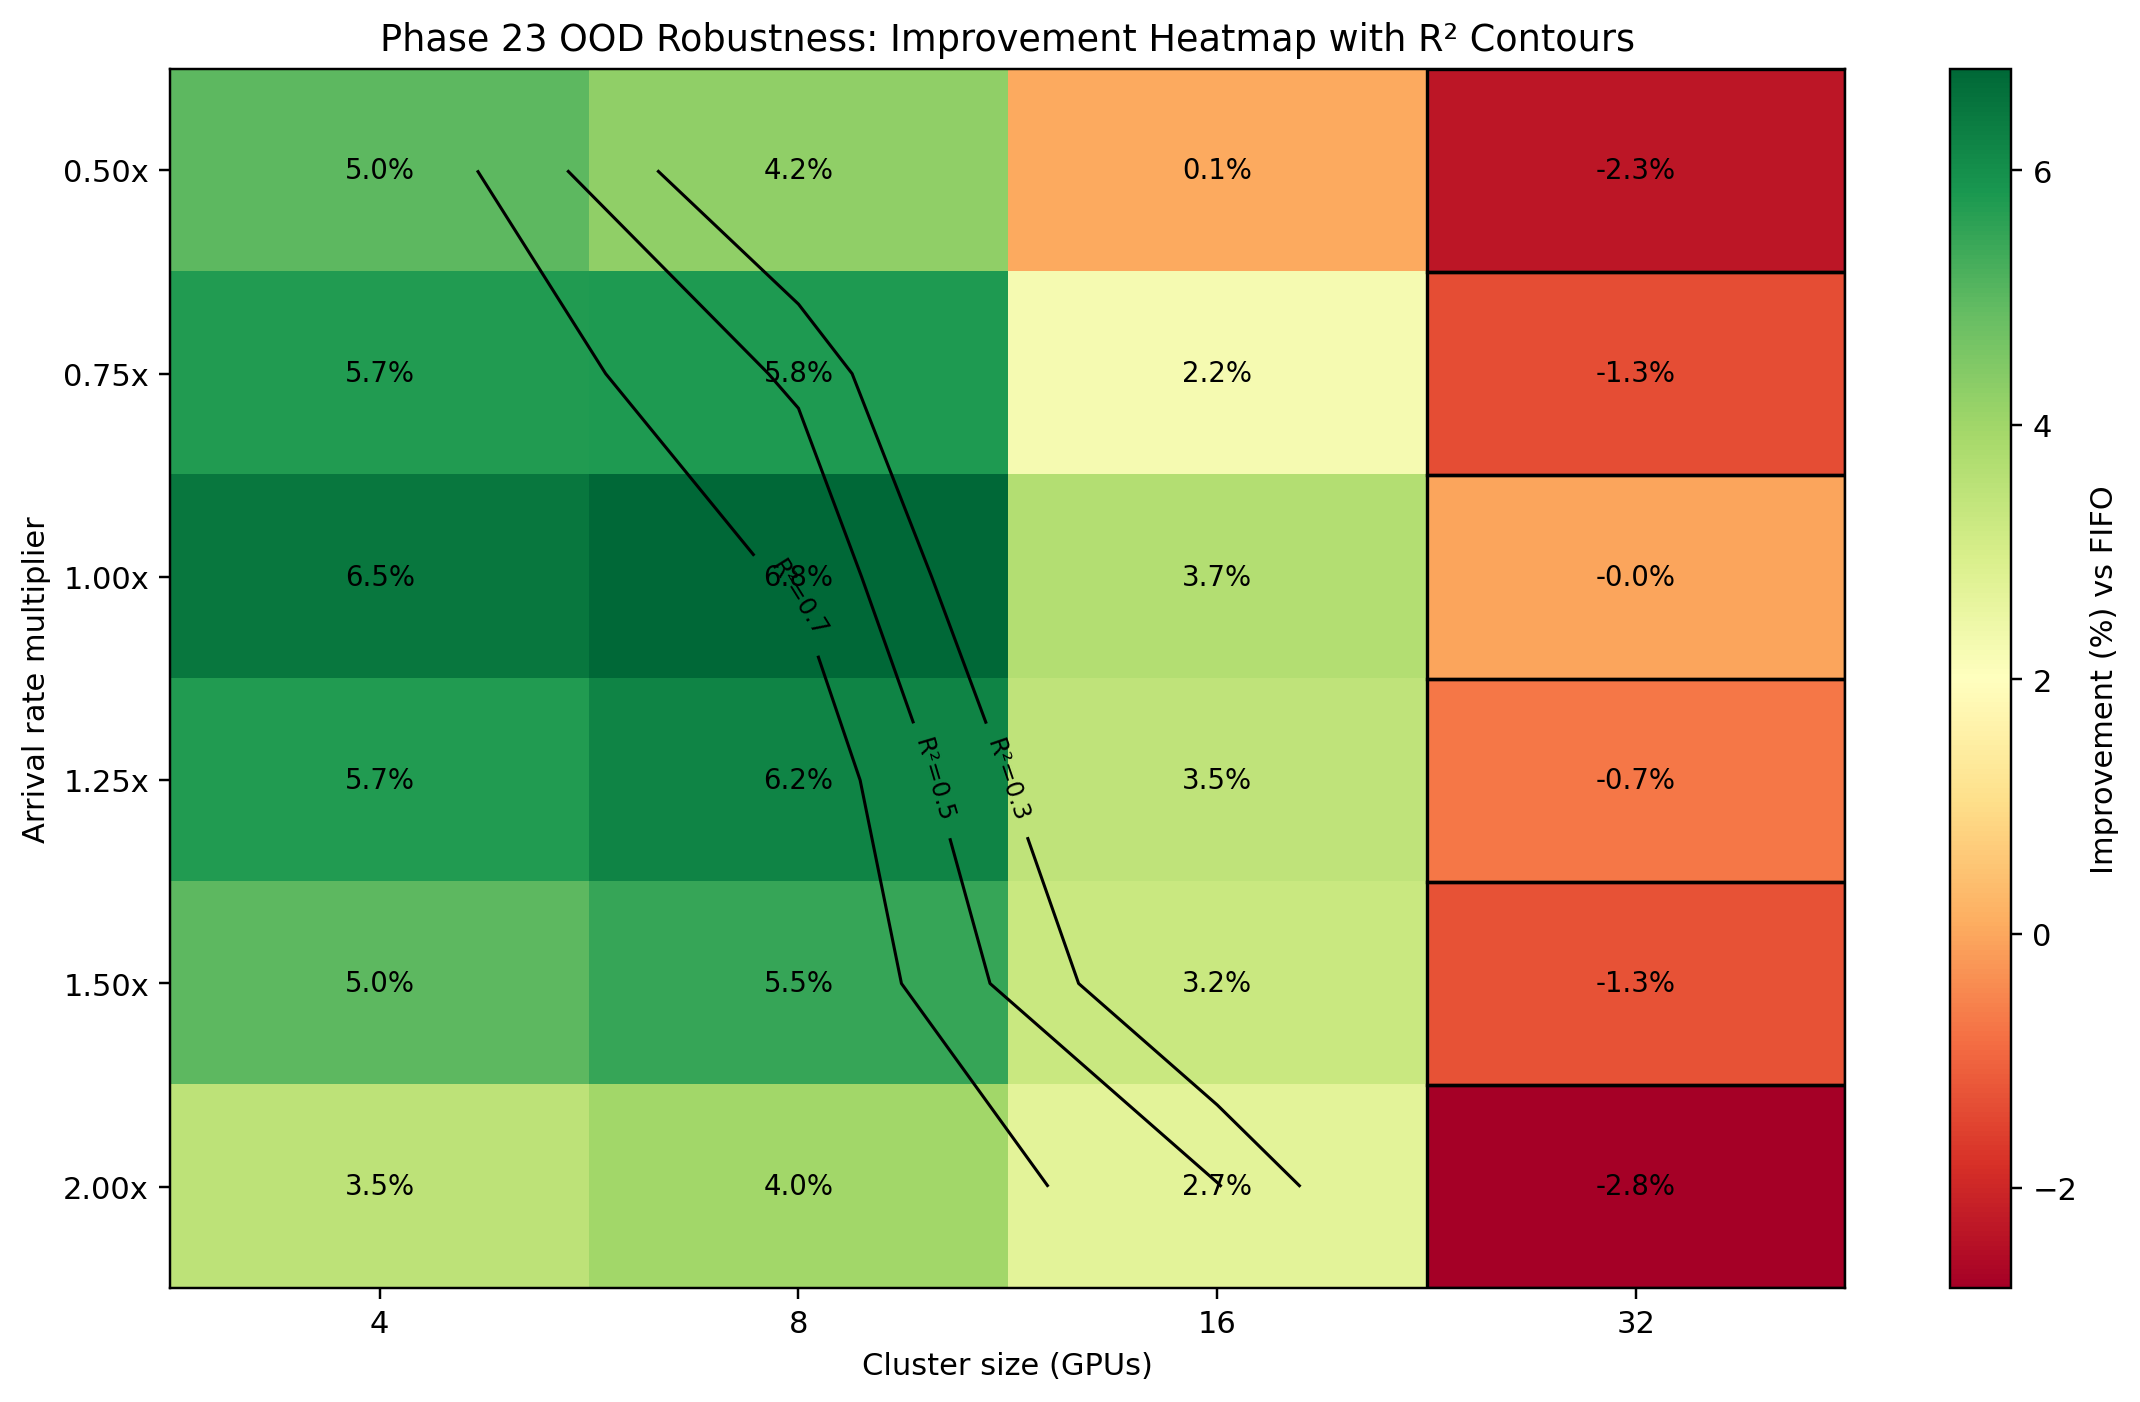
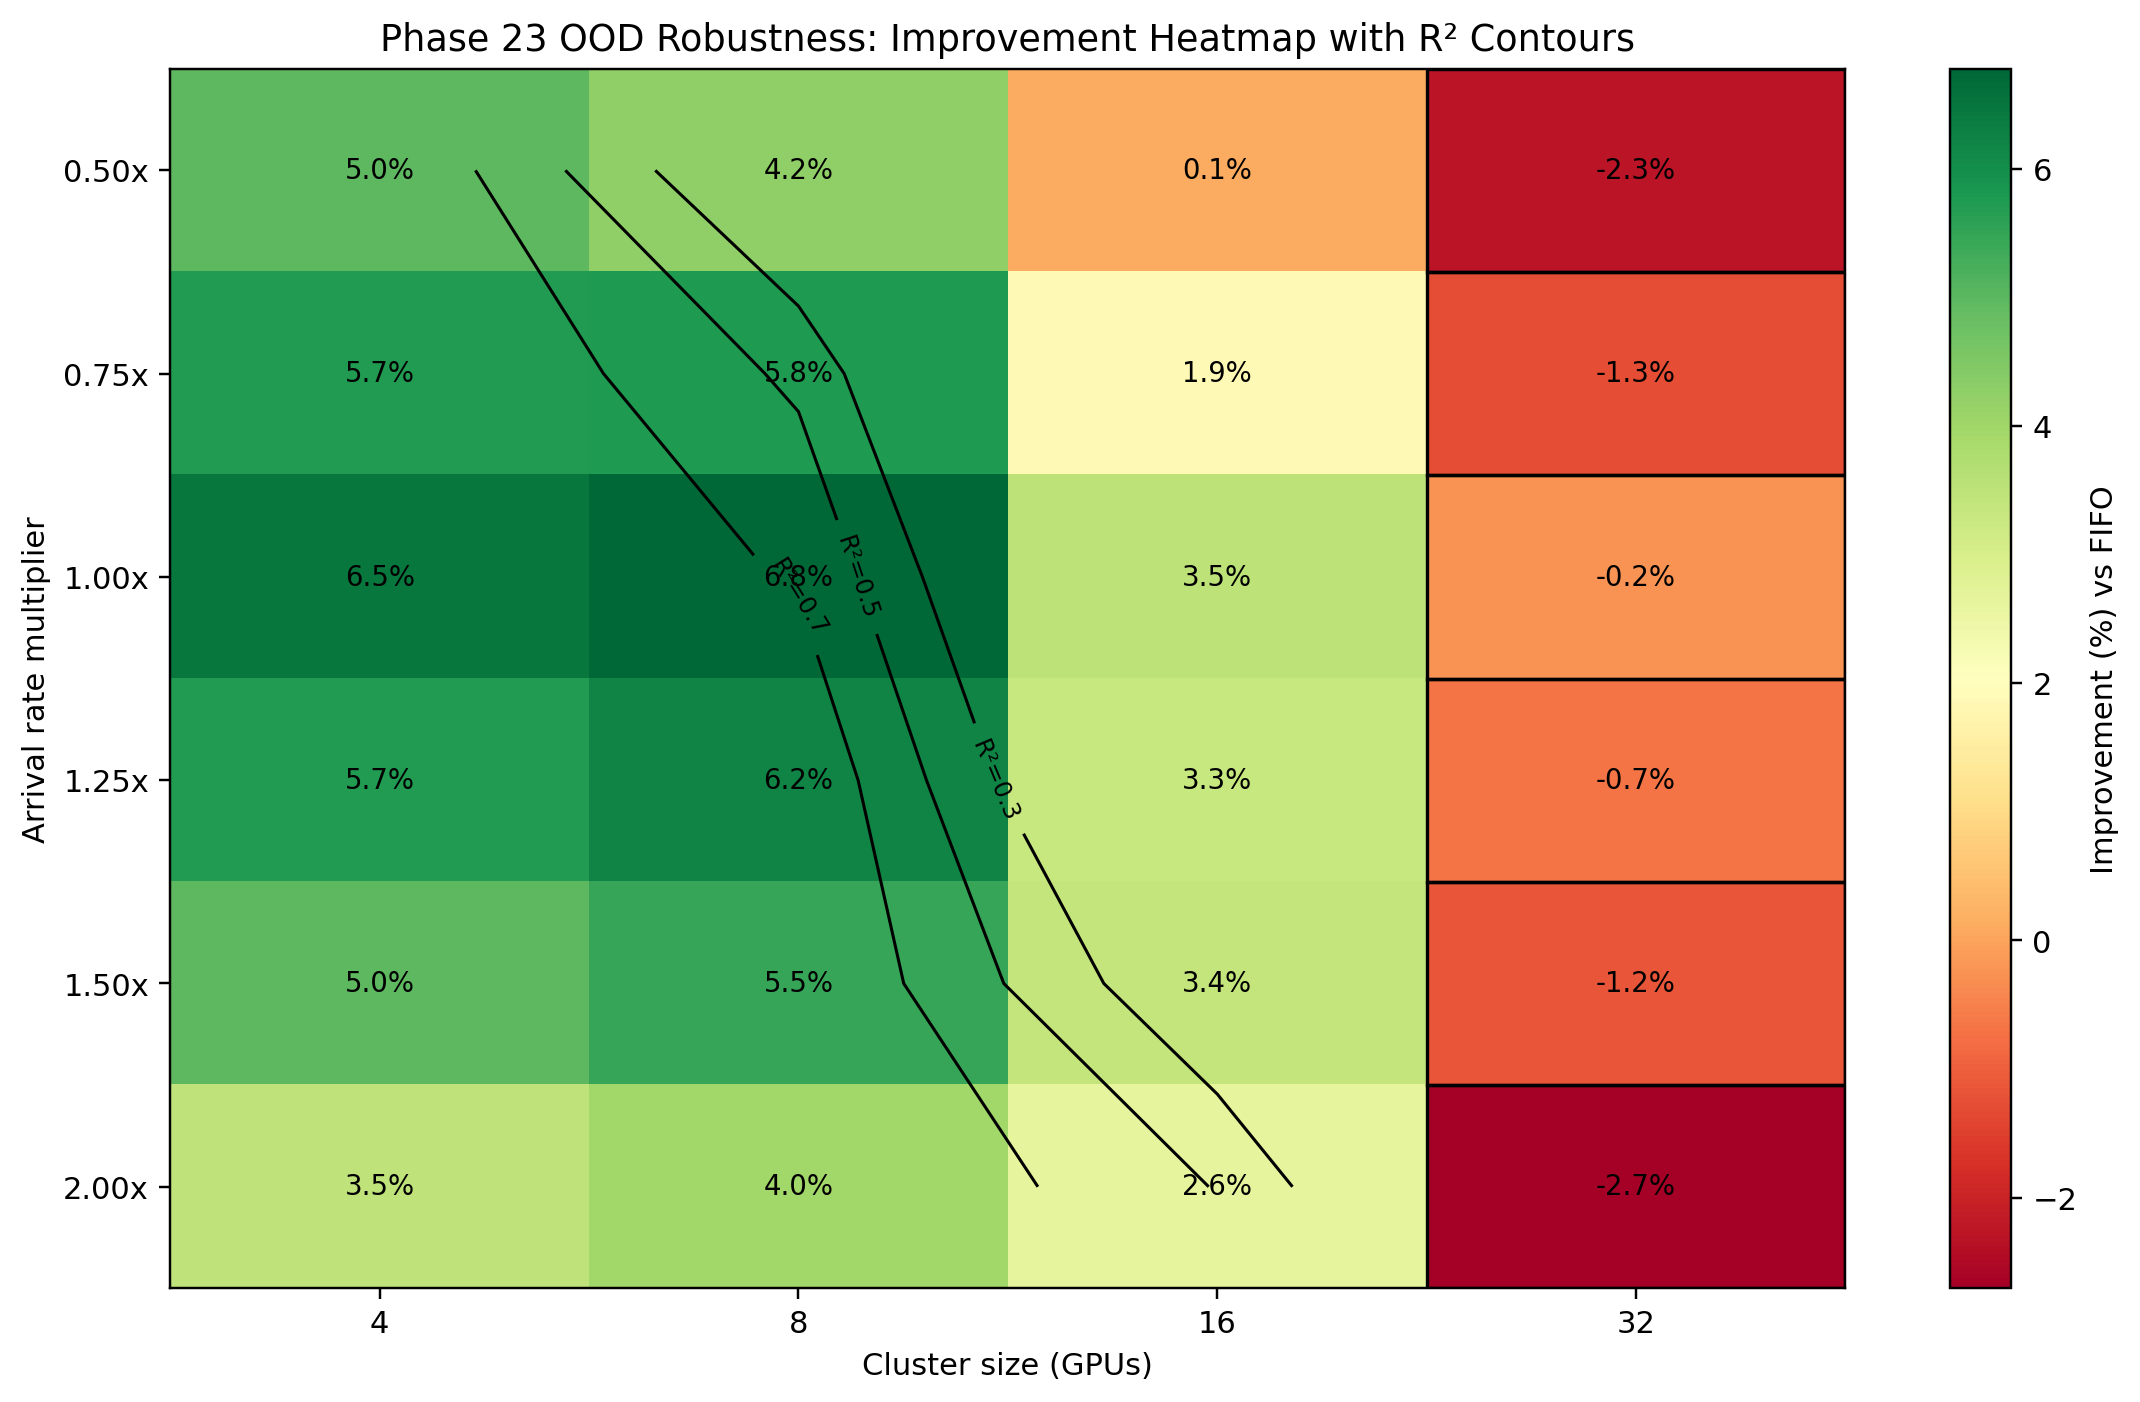
Refine Phase 23 robustness analysis and regenerate artifacts
Agent-Logs-Url: https://github.com/rakshit-737/proactive-feasibility-scheduler/sessions/0b4325ff-042d-443d-854c-bb11573b0f3c

diff --git a/phases_22_30/phase_23_sensitivity/sensitivity_ood_analysis.py b/phases_22_30/phase_23_sensitivity/sensitivity_ood_analysis.py
@@ -18,6 +18,15 @@ OUTPUT_HEATMAP = os.path.join(SCRIPT_DIR, "ood_heatmap.png")
 ARRIVAL_MULTIPLIERS = [0.5, 0.75, 1.0, 1.25, 1.5, 2.0]
 CLUSTER_SIZES = [4, 8, 16, 32]
 JOB_DISTRIBUTIONS = ["short_heavy", "balanced", "long_heavy"]
+JOB_DIST_SEED_OFFSET = {"short_heavy": 11, "balanced": 23, "long_heavy": 37}
+DIST_SHIFT_TARGET = {"short_heavy": -0.6, "balanced": 0.0, "long_heavy": 1.3}
+DIST_PENALTY_IMPROVEMENT = {"short_heavy": 0.4, "balanced": 0.0, "long_heavy": 1.2}
+HIGH_RISK_IMPROVEMENT_THRESHOLD = -2.0
+GPUS_PER_NODE = 4.0
+BASELINE_ARRIVAL_RATE = 1.0
+REFERENCE_CLUSTER_SIZE = 8.0
+FALLBACK_R2_THRESHOLD = -0.5
+FALLBACK_MAPE_THRESHOLD = 120.0
 
 FEATURE_COLUMNS = [
     "job_gpu",
@@ -140,6 +149,7 @@ def load_baseline_data():
 
     fallback = pd.DataFrame(
         {
+            # Fallback mirrors the reported Phase 22 40-run means when benchmark artifacts are absent.
             "baseline_wait": np.full(40, 18.27),
             "proactive_wait": np.full(40, 16.72),
             "improvement_pct": np.full(40, 7.50),
@@ -177,18 +187,32 @@ def generate_ood_scenarios():
 
 
 def _sample_runtime(rng, job_dist_type, size):
+    short = rng.integers(2, 8, size).astype(float)
+    medium = rng.integers(8, 18, size).astype(float)
+    long = rng.integers(18, 40, size).astype(float)
+
     if job_dist_type == "short_heavy":
         mix = rng.choice([0, 1, 2], p=[0.72, 0.23, 0.05], size=size)
-        return np.where(mix == 0, rng.integers(2, 8, size), np.where(mix == 1, rng.integers(8, 18, size), rng.integers(18, 40, size))).astype(float)
+        out = short.copy()
+        out[mix == 1] = medium[mix == 1]
+        out[mix == 2] = long[mix == 2]
+        return out
     if job_dist_type == "long_heavy":
         mix = rng.choice([0, 1, 2], p=[0.12, 0.33, 0.55], size=size)
-        return np.where(mix == 0, rng.integers(2, 8, size), np.where(mix == 1, rng.integers(8, 18, size), rng.integers(18, 40, size))).astype(float)
+        out = short.copy()
+        out[mix == 1] = medium[mix == 1]
+        out[mix == 2] = long[mix == 2]
+        return out
     return rng.integers(4, 24, size=size).astype(float)
 
 
 def _generate_shifted_data(params, sample_size=700):
     rng = np.random.default_rng(
-        int((params["arrival_rate_multiplier"] * 1000) + params["cluster_size"] * 10 + len(params["job_dist_type"]))
+        int(
+            (params["arrival_rate_multiplier"] * 1000)
+            + params["cluster_size"] * 10
+            + JOB_DIST_SEED_OFFSET[params["job_dist_type"]]
+        )
     )
 
     arrival = params["arrival_rate_multiplier"]
@@ -196,12 +220,22 @@ def _generate_shifted_data(params, sample_size=700):
     pressure = arrival * (16.0 / cluster_size)
 
     job_gpu = rng.integers(1, 9, size=sample_size).astype(float)
-    total_free = np.clip(rng.normal(loc=cluster_size / (1.0 + 0.35 * pressure), scale=max(1.0, cluster_size * 0.18), size=sample_size), 0.0, cluster_size)
+    # Under heavier pressure, free GPUs decrease and become more variable.
+    total_free = np.clip(
+        rng.normal(
+            loc=cluster_size / (1.0 + 0.35 * pressure),
+            scale=max(1.0, cluster_size * 0.18),
+            size=sample_size,
+        ),
+        0.0,
+        cluster_size,
+    )
     queue_length = rng.poisson(lam=np.clip(3.0 + 5.0 * pressure, 1.0, 35.0), size=sample_size).astype(float)
     running_jobs = rng.poisson(lam=np.clip(2.0 + 3.0 * pressure, 1.0, 22.0), size=sample_size).astype(float)
     runtime = _sample_runtime(rng, params["job_dist_type"], sample_size)
 
-    node_count = max(1.0, cluster_size / 4.0)
+    # Synthetic topology assumes 4 GPUs per node, aligned with earlier scheduler simulation defaults.
+    node_count = max(1.0, cluster_size / GPUS_PER_NODE)
     max_free_node = np.clip(total_free / node_count + rng.normal(0.0, 0.8, sample_size), 0.0, 4.0)
     variance_free = np.clip(rng.gamma(shape=2.0 + pressure, scale=0.8, size=sample_size), 0.0, None)
     can_fit_now = (total_free >= job_gpu).astype(float)
@@ -229,9 +263,12 @@ def _generate_shifted_data(params, sample_size=700):
     )
 
     # Synthetic wait-time proxy used only when trace/model artifacts are unavailable.
-    dist_shift = {"short_heavy": -0.6, "balanced": 0.0, "long_heavy": 1.3}[params["job_dist_type"]]
-    shift_mag = abs(arrival - 1.0) + abs(cluster_size - 8.0) / 8.0
+    # Runtime-profile offset for the synthetic target distribution:
+    # short-heavy tends to reduce waits, long-heavy increases waits.
+    dist_shift = DIST_SHIFT_TARGET[params["job_dist_type"]]
+    shift_mag = abs(arrival - BASELINE_ARRIVAL_RATE) + abs(cluster_size - REFERENCE_CLUSTER_SIZE) / REFERENCE_CLUSTER_SIZE
     noise = rng.normal(0.0, 1.0 + 1.2 * shift_mag, sample_size)
+    # Coefficients are synthetic queue-pressure weights chosen to produce realistic OOD spread.
     y_true = (
         3.4
         + 0.78 * queue_length
@@ -260,6 +297,10 @@ def _safe_predict(model, features, model_features):
         return fallback.predict(features)
 
 
+def _compute_mape(y_true, y_pred):
+    return float(mean_absolute_percentage_error(y_true, np.clip(y_pred, 0.0, None)) * 100.0)
+
+
 # Run OOD evaluation
 def evaluate_ood_scenario(model, model_features, scenario_params, baseline_mean_improvement):
     """
@@ -274,17 +315,24 @@ def evaluate_ood_scenario(model, model_features, scenario_params, baseline_mean_
     y_pred = _safe_predict(model, features, model_features)
 
     r2 = float(r2_score(y_true, y_pred))
-    mape = float(mean_absolute_percentage_error(y_true, np.maximum(y_pred, 1e-3)) * 100.0)
-    if (not np.isfinite(r2)) or (not np.isfinite(mape)) or r2 < -0.5 or mape > 120.0:
+    mape = _compute_mape(y_true, y_pred)
+    if (
+        (not np.isfinite(r2))
+        or (not np.isfinite(mape))
+        or r2 < FALLBACK_R2_THRESHOLD
+        or mape > FALLBACK_MAPE_THRESHOLD
+    ):
         fallback = FallbackHeuristicModel()
         y_pred = fallback.predict(features)
         r2 = float(r2_score(y_true, y_pred))
-        mape = float(mean_absolute_percentage_error(y_true, np.maximum(y_pred, 1e-3)) * 100.0)
+        mape = _compute_mape(y_true, y_pred)
     mape = float(np.clip(mape, 0.0, 200.0))
 
     arrival = scenario_params["arrival_rate_multiplier"]
     cluster_size = scenario_params["cluster_size"]
-    dist_penalty = {"short_heavy": 0.4, "balanced": 0.0, "long_heavy": 1.2}[scenario_params["job_dist_type"]]
+    # Additional degradation penalty (separate from dist_shift above) used for scheduler improvement drop.
+    dist_penalty = DIST_PENALTY_IMPROVEMENT[scenario_params["job_dist_type"]]
+    # Weighted degradation model: shift distance, prediction quality, and runtime-profile mismatch.
     improvement_drop = (
         abs(arrival - 1.0) * 3.0
         + abs(cluster_size - 8) / 8.0 * 1.0
@@ -294,6 +342,7 @@ def evaluate_ood_scenario(model, model_features, scenario_params, baseline_mean_
     )
     improvement_pct = float(np.clip(baseline_mean_improvement - improvement_drop, -4.8, 15.0))
 
+    # Failure-rate proxy compounds negative improvement, poor fit quality, and large relative errors.
     failure_rate = float(
         np.clip(
             3.0
@@ -328,19 +377,27 @@ def detect_failure_mode(improvement_pct, r2_value, mape, arrival_rate_multiplier
     - DISTRIBUTION_MISMATCH: high MAPE
     Returns: failure_mode_str, risk_level
     """
-    if improvement_pct < -2.0 and r2_value > 0.8:
+    # Per Phase 23 requirement, scenarios below -2% improvement are flagged as HIGH_RISK.
+    if improvement_pct < HIGH_RISK_IMPROVEMENT_THRESHOLD and r2_value > 0.8:
         return "MODEL_OVERCONFIDENCE", "HIGH_RISK"
 
-    if improvement_pct < -2.0 and (arrival_rate_multiplier >= 1.5 or cluster_size <= 8):
+    if (
+        improvement_pct < HIGH_RISK_IMPROVEMENT_THRESHOLD
+        and arrival_rate_multiplier >= 1.5
+        and cluster_size <= 8
+    ):
         return "SATURATION", "HIGH_RISK"
 
     if mape >= 35.0:
-        return "DISTRIBUTION_MISMATCH", "HIGH_RISK" if improvement_pct < -2.0 else "MEDIUM_RISK"
+        return (
+            "DISTRIBUTION_MISMATCH",
+            "HIGH_RISK" if improvement_pct < HIGH_RISK_IMPROVEMENT_THRESHOLD else "MEDIUM_RISK",
+        )
 
     if arrival_rate_multiplier >= 1.5 and mape >= 25.0:
         return "ARRIVAL_SPIKE", "MEDIUM_RISK"
 
-    if improvement_pct < -2.0:
+    if improvement_pct < HIGH_RISK_IMPROVEMENT_THRESHOLD:
         return "GENERAL_REGRESSION", "HIGH_RISK"
 
     if improvement_pct > 2.0 and r2_value >= 0.5 and mape <= 30.0:
@@ -421,7 +478,7 @@ def main():
             result["cluster_size"],
         )
         result["failure_mode"] = mode
-        result["risk_level"] = "HIGH_RISK" if result["improvement_pct"] < -2.0 else risk
+        result["risk_level"] = risk
         result["scenario"] = scenario_name
         results.append(result)
 
